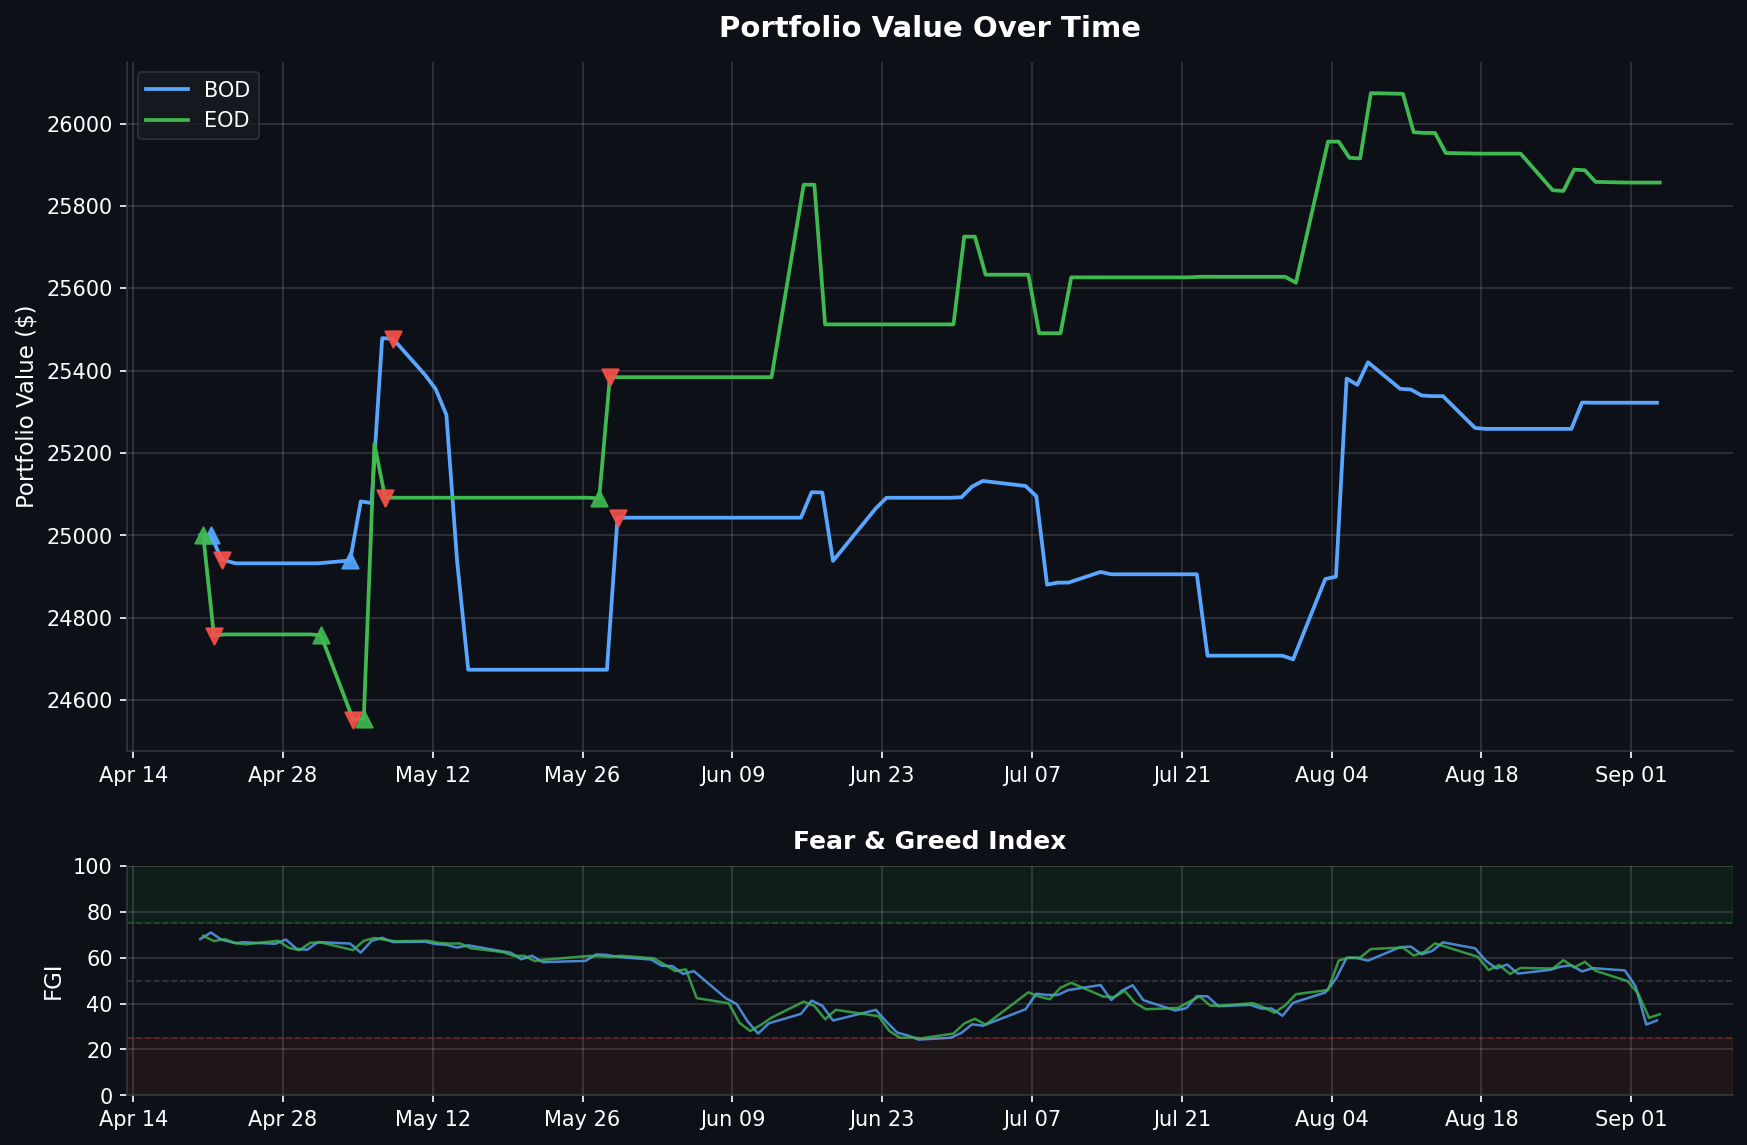
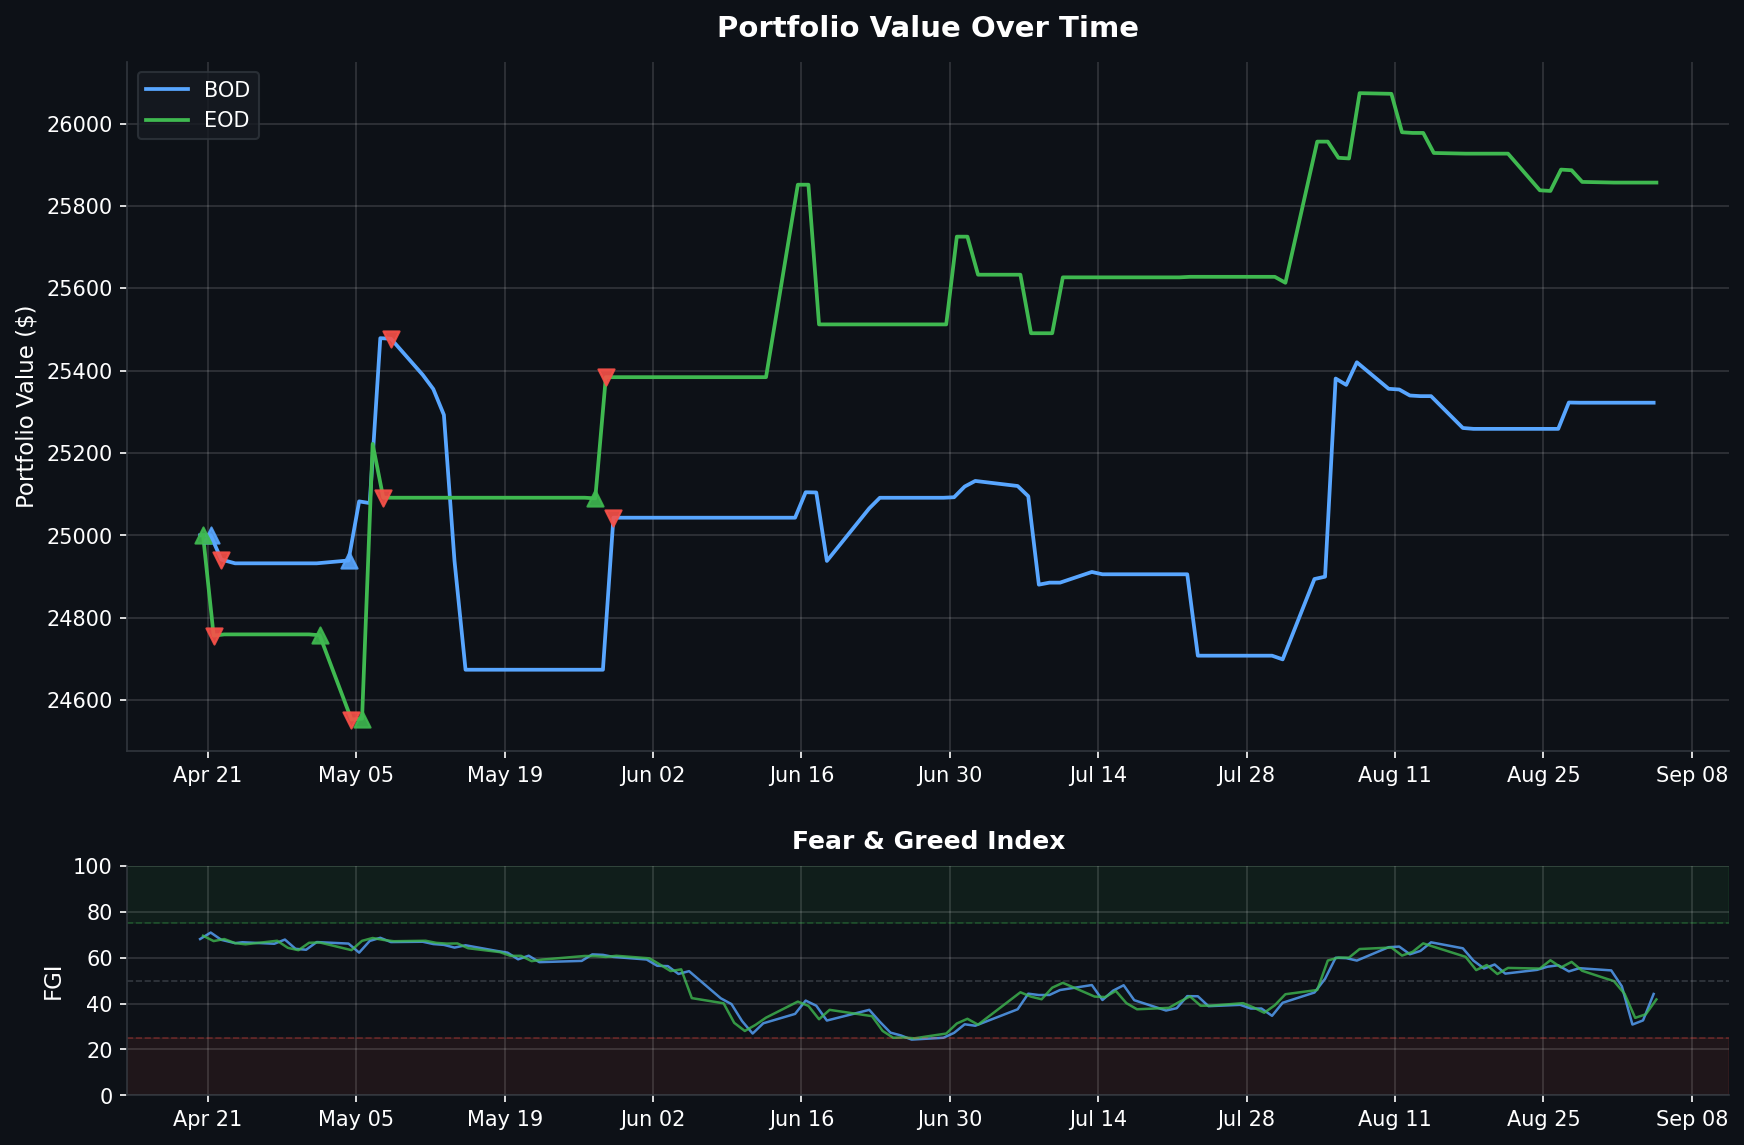
Daily data backup 2026-09-04

diff --git a/README.md b/README.md
@@ -1,6 +1,6 @@
 # Fear & Greed Index Trading Bot
 
-> Dashboard auto-updated daily at market close | Last update: **2026-09-03 13:30 PST**
+> Dashboard auto-updated daily at market close | Last update: **2026-09-04 13:30 PST**
 
 ![Portfolio Performance](assets/portfolio_chart.png)
 
@@ -12,12 +12,12 @@
 |--------|-------|
 | Portfolio Value | **$25,322.10** |
 | Buying Power | $101,288.40 |
-| Current FGI | 32.66 |
+| Current FGI | 44.17 |
 | Position | FLAT |
 | Total P&L | **$+995** |
 | Win Rate | 50% (1W / 1L) |
 | Total Round Trips | 2 |
-| Last Signal | NO_ACTION @ 2026-09-03 09:35 |
+| Last Signal | NO_ACTION @ 2026-09-04 09:35 |
 
 <details>
 <summary>Trade History (2 trades)</summary>
@@ -34,11 +34,11 @@
 
 | Time | Action | Price | FGI | Momentum | Velocity | Volatility | Reason |
 |------|--------|-------|-----|----------|----------|------------|--------|
+| 09-04 09:35 | NO_ACTION | $772.65 | 44.17 | 8.27 | -1.11 | 0.0803 | Insufficient momentum/velocity for entry |
 | 09-03 09:35 | NO_ACTION | $768.75 | 32.66 | -4.35 | -7.26 | 0.0761 | Insufficient momentum/velocity for entry |
 | 09-02 09:35 | NO_ACTION | $762.27 | 30.86 | -13.41 | -8.18 | 0.0718 | Insufficient momentum/velocity for entry |
 | 09-01 09:35 | NO_ACTION | $761.95 | 47.51 | -4.94 | -2.16 | 0.0713 | Insufficient momentum/velocity for entry |
 | 08-31 09:35 | NO_ACTION | $766.17 | 54.43 | -0.18 | -0.74 | 0.0934 | Insufficient momentum/velocity for entry |
-| 08-28 09:35 | NO_ACTION | $772.07 | 55.4 | 0.05 | -0.22 | 0.55 | Insufficient momentum/velocity for entry |
 
 </details>
 
@@ -50,12 +50,12 @@
 |--------|-------|
 | Portfolio Value | **$25,856.69** |
 | Buying Power | $103,426.76 |
-| Current FGI | 35.34 |
+| Current FGI | 41.8 |
 | Position | FLAT |
 | Total P&L | **$+302** |
 | Win Rate | 50% (2W / 2L) |
 | Total Round Trips | 4 |
-| Last Signal | NO_ACTION @ 2026-09-03 15:50 |
+| Last Signal | NO_ACTION @ 2026-09-04 15:50 |
 
 <details>
 <summary>Trade History (4 trades)</summary>
@@ -74,11 +74,11 @@
 
 | Time | Action | Price | FGI | Momentum | Velocity | Volatility | Reason |
 |------|--------|-------|-----|----------|----------|------------|--------|
+| 09-04 15:50 | NO_ACTION | $770.33 | 41.8 | 4.83 | -0.81 | 0.0814 | Insufficient momentum/velocity for entry |
 | 09-03 15:50 | NO_ACTION | $773.35 | 35.34 | -2.44 | -4.80 | 0.0832 | Insufficient momentum/velocity for entry |
 | 09-02 15:50 | NO_ACTION | $765.32 | 33.77 | -8.81 | -6.83 | 0.0742 | Insufficient momentum/velocity for entry |
 | 09-01 15:50 | NO_ACTION | $761.07 | 44.23 | -5.18 | -4.64 | 0.0723 | Insufficient momentum/velocity for entry |
 | 08-31 15:50 | NO_ACTION | $767.39 | 49.74 | -4.31 | -2.00 | 0.0931 | Insufficient momentum/velocity for entry |
-| 08-28 15:52 | NO_ACTION | $769.53 | 54.26 | -1.79 | -1.53 | 0.55 | SELL incomplete - still holding 33 after 5 attempts |
 
 </details>
 
